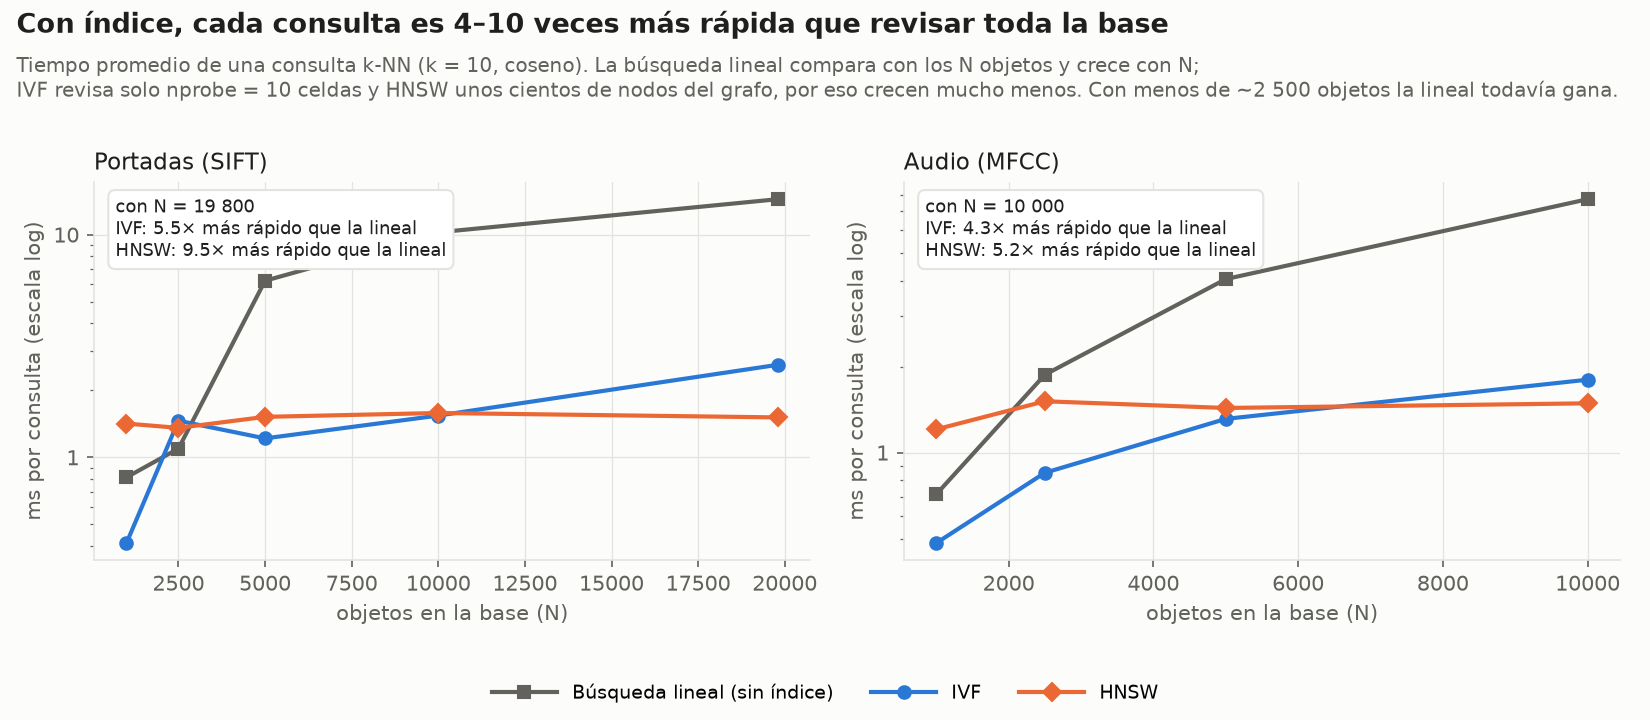
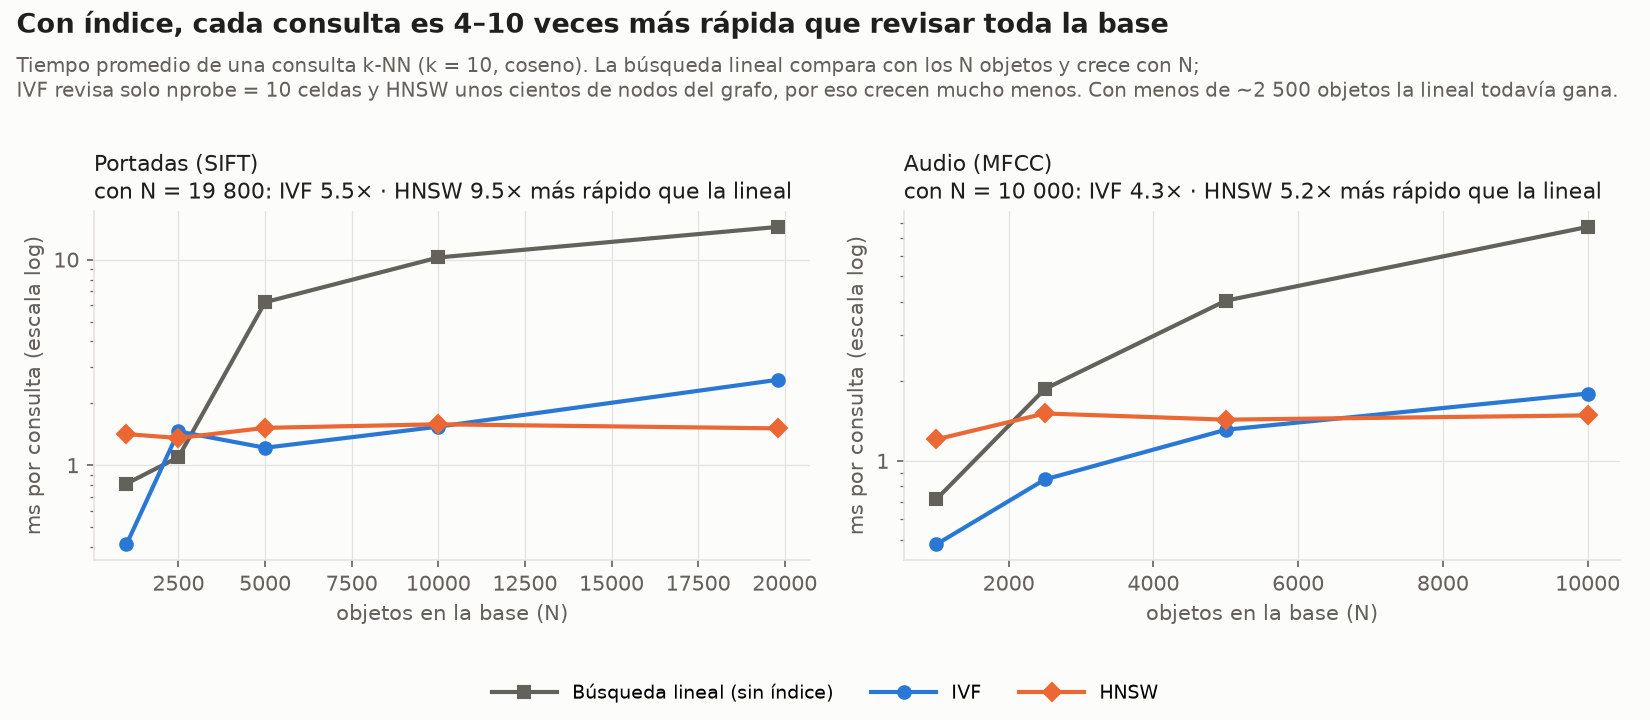
fix(benchmark): no tapar la búsqueda lineal en la gráfica de consultas

diff --git a/benchmark/multimedia/benchmark_vectorial.py b/benchmark/multimedia/benchmark_vectorial.py
@@ -362,14 +362,15 @@ def fig_consulta(r, plt):
         for nombre in ["lineal"] + INDICES:
             linea(ax, r, tipo, nombre, "consulta_ms")
         lin = en_maximo(r, tipo, "coseno", "lineal", "consulta_ms")
-        texto = [f"con N = {maximo(r, tipo):,}".replace(",", " ")]
+        texto = []
         for nombre in INDICES:
             ms = en_maximo(r, tipo, "coseno", nombre, "consulta_ms")
             veces.append(lin / ms)
-            texto.append(f"{NOMBRE[nombre]}: {lin / ms:.1f}× más rápido que la lineal")
-        ax.text(.03, .96, "\n".join(texto), transform=ax.transAxes, va="top", fontsize=8.5,
-                color=TINTA, bbox={"boxstyle": "round,pad=.4", "fc": "white", "ec": REJILLA})
-        ax.set_title(TITULO[tipo], color=TINTA, fontsize=11, loc="left")
+            texto.append(f"{NOMBRE[nombre]} {lin / ms:.1f}×")
+        # el "cuántas veces más rápido" va en el título del panel para no tapar las líneas
+        ax.set_title(f"{TITULO[tipo]}\ncon N = {maximo(r, tipo):,}: ".replace(",", " ")
+                     + " · ".join(texto) + " más rápido que la lineal",
+                     color=TINTA, fontsize=10.5, loc="left")
         ax.set_xlabel("objetos en la base (N)")
         ax.set_ylabel("ms por consulta (escala log)")
         eje_log(ax)
